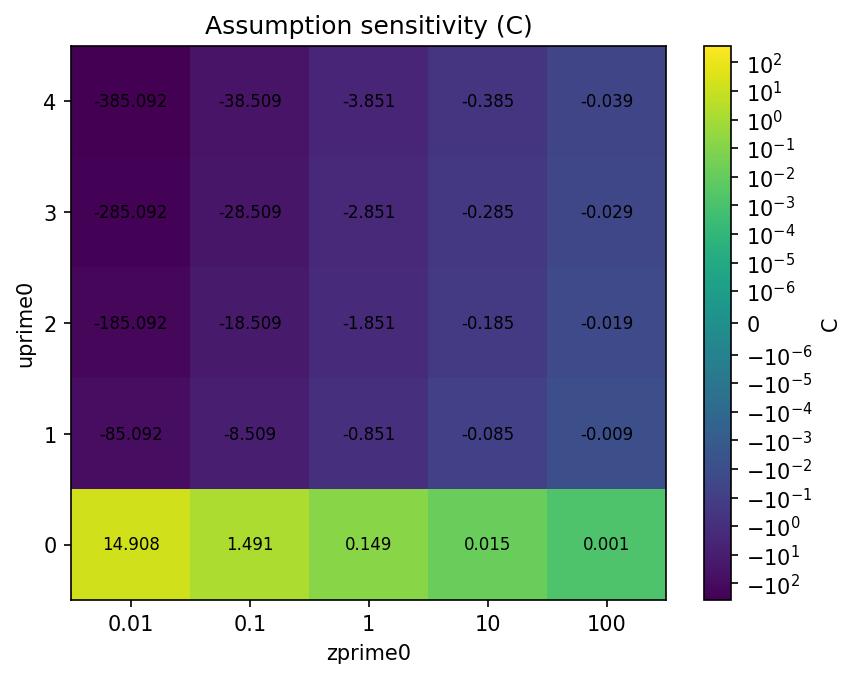
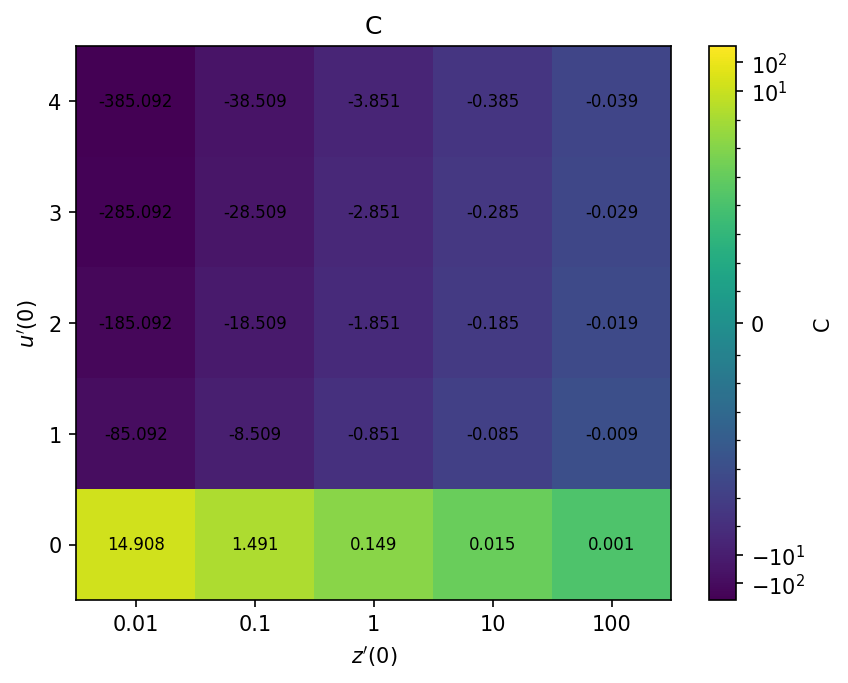
見た目整理

diff --git a/数値解析学/前半/report_prob3.py b/数値解析学/前半/report_prob3.py
@@ -207,33 +207,34 @@ def plot_assumption_grids(
     zprime_vals = np.asarray(zprime_list, dtype=float)
     max_err_grid = np.zeros((len(uprime0_vals), len(zprime_vals)), dtype=float)
     c_grid = np.zeros((len(uprime0_vals), len(zprime_vals)), dtype=float)
+    baseline = solve_bvp_superposition(h, uprime0=0.0, zprime0=1.0)
+    baseline_y = np.asarray(baseline.y_num, dtype=float)
 
     for i, uprime0 in enumerate(uprime0_vals):
         for j, zprime0 in enumerate(zprime_vals):
             res = solve_bvp_superposition(
                 h, uprime0=float(uprime0), zprime0=float(zprime0)
             )
-            max_err_grid[i, j] = max(res.abs_err)
+            y_num = np.asarray(res.y_num, dtype=float)
+            max_err_grid[i, j] = float(np.max(np.abs(y_num - baseline_y)))
             c_grid[i, j] = res.C
 
     plt.figure()
-    plt.title("Assumption sensitivity (max |error|)")
+    plt.title(r"$\max |y - y_{\mathrm{base}}|$")
     x = np.arange(len(zprime_vals) + 1)
     y = np.arange(len(uprime0_vals) + 1)
-    min_pos = float(np.min(max_err_grid[max_err_grid > 0]))
-    norm_err = colors.LogNorm(vmin=min_pos, vmax=float(np.max(max_err_grid)))
-    im = plt.pcolormesh(x, y, max_err_grid, shading="flat", norm=norm_err)
-    plt.colorbar(im, label="max |error|")
+    im = plt.pcolormesh(x, y, max_err_grid, shading="flat")
+    plt.colorbar(im, label=r"$\max |y - y_{\mathrm{base}}|$")
     plt.xticks(np.arange(len(zprime_vals)) + 0.5, [f"{v:g}" for v in zprime_vals])
     plt.yticks(np.arange(len(uprime0_vals)) + 0.5, [f"{v:g}" for v in uprime0_vals])
-    plt.xlabel("zprime0")
-    plt.ylabel("uprime0")
+    plt.xlabel(r"$z'(0)$")
+    plt.ylabel(r"$u'(0)$")
     for i, uprime0 in enumerate(uprime0_vals):
         for j, zprime0 in enumerate(zprime_vals):
             plt.text(
                 j + 0.5,
                 i + 0.5,
-                f"{max_err_grid[i, j]:.6e}",
+                f"{max_err_grid[i, j]:.3e}",
                 ha="center",
                 va="center",
                 fontsize=8,
@@ -246,15 +247,18 @@ def plot_assumption_grids(
     plt.show()
 
     plt.figure()
-    plt.title("Assumption sensitivity (C)")
+    plt.title("C")
     max_abs_c = float(np.max(np.abs(c_grid)))
     norm_c = colors.SymLogNorm(linthresh=1e-6, vmin=-max_abs_c, vmax=max_abs_c)
     im = plt.pcolormesh(x, y, c_grid, shading="flat", norm=norm_c)
-    plt.colorbar(im, label="C")
+    cbar = plt.colorbar(im, label="C")
+    tick_vals = [-1e2, -1e1, 0.0, 1e1, 1e2]
+    cbar.set_ticks(tick_vals)
+    cbar.set_ticklabels([r"$-10^2$", r"$-10^1$", "0", r"$10^1$", r"$10^2$"])
     plt.xticks(np.arange(len(zprime_vals)) + 0.5, [f"{v:g}" for v in zprime_vals])
     plt.yticks(np.arange(len(uprime0_vals)) + 0.5, [f"{v:g}" for v in uprime0_vals])
-    plt.xlabel("zprime0")
-    plt.ylabel("uprime0")
+    plt.xlabel(r"$z'(0)$")
+    plt.ylabel(r"$u'(0)$")
     for i, uprime0 in enumerate(uprime0_vals):
         for j, zprime0 in enumerate(zprime_vals):
             plt.text(
